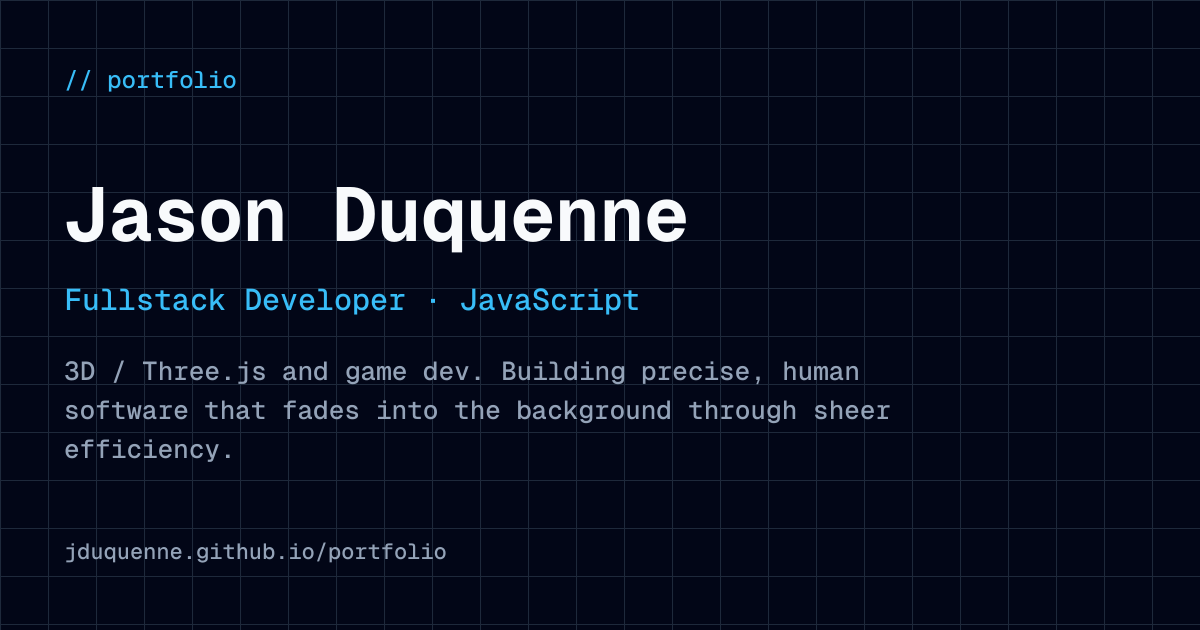
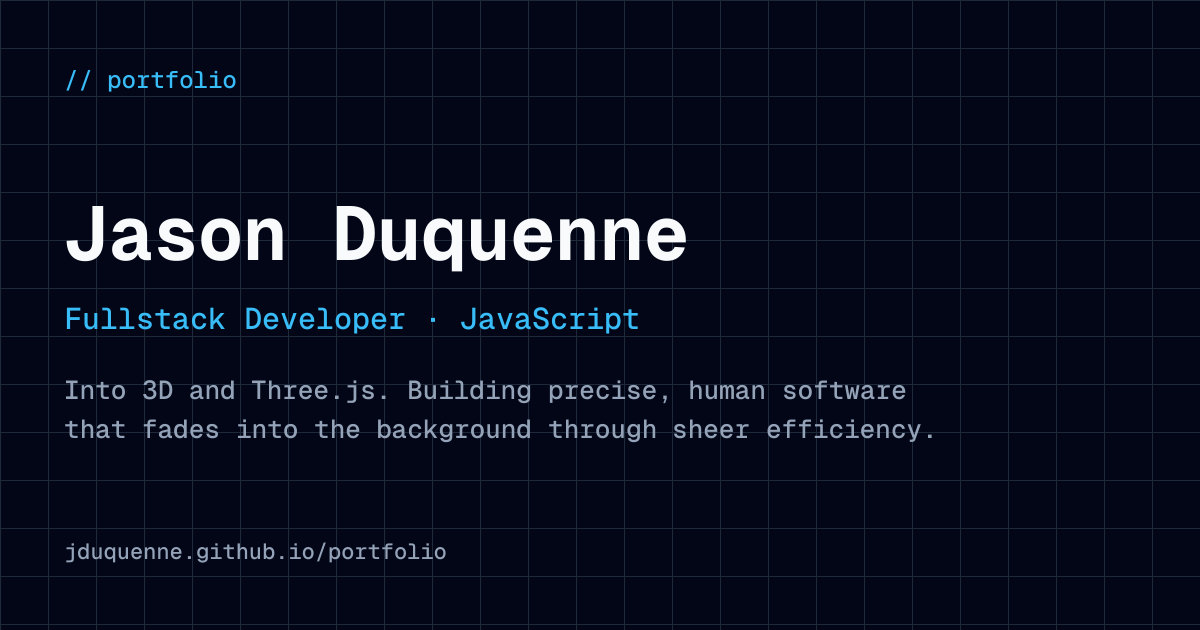
fix: remove game dev mentions from portfolio metadata and social preview

diff --git a/src/app/[locale]/layout.tsx b/src/app/[locale]/layout.tsx
@@ -83,13 +83,7 @@ export default async function LocaleLayout({
     image: `${siteUrl}/og.png`,
     email: cv.contact.email,
     sameAs: [cv.contact.github, cv.contact.linkedin],
-    knowsAbout: [
-      "TypeScript",
-      "Next.js",
-      "Three.js",
-      "Game Development",
-      "React",
-    ],
+    knowsAbout: ["TypeScript", "Next.js", "React", "Three.js", "WebGL"],
   };
 
   return (
